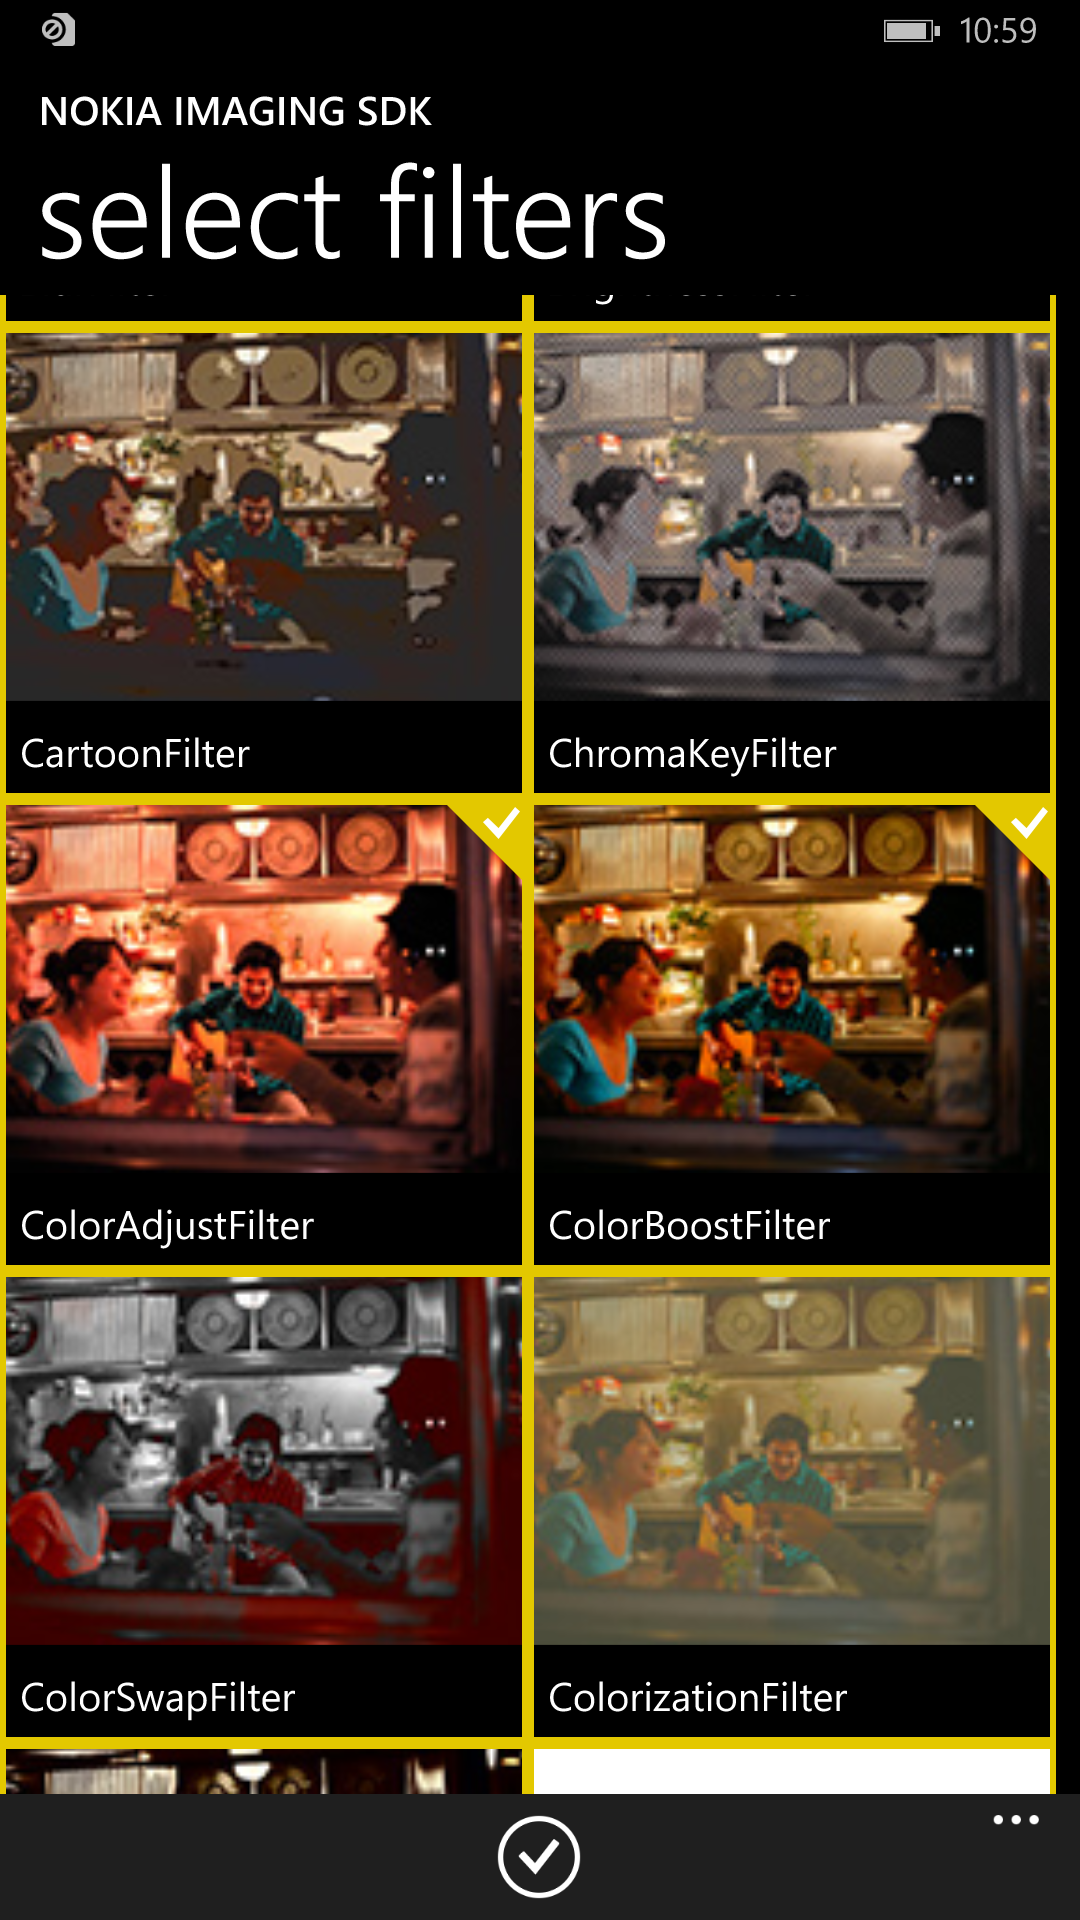
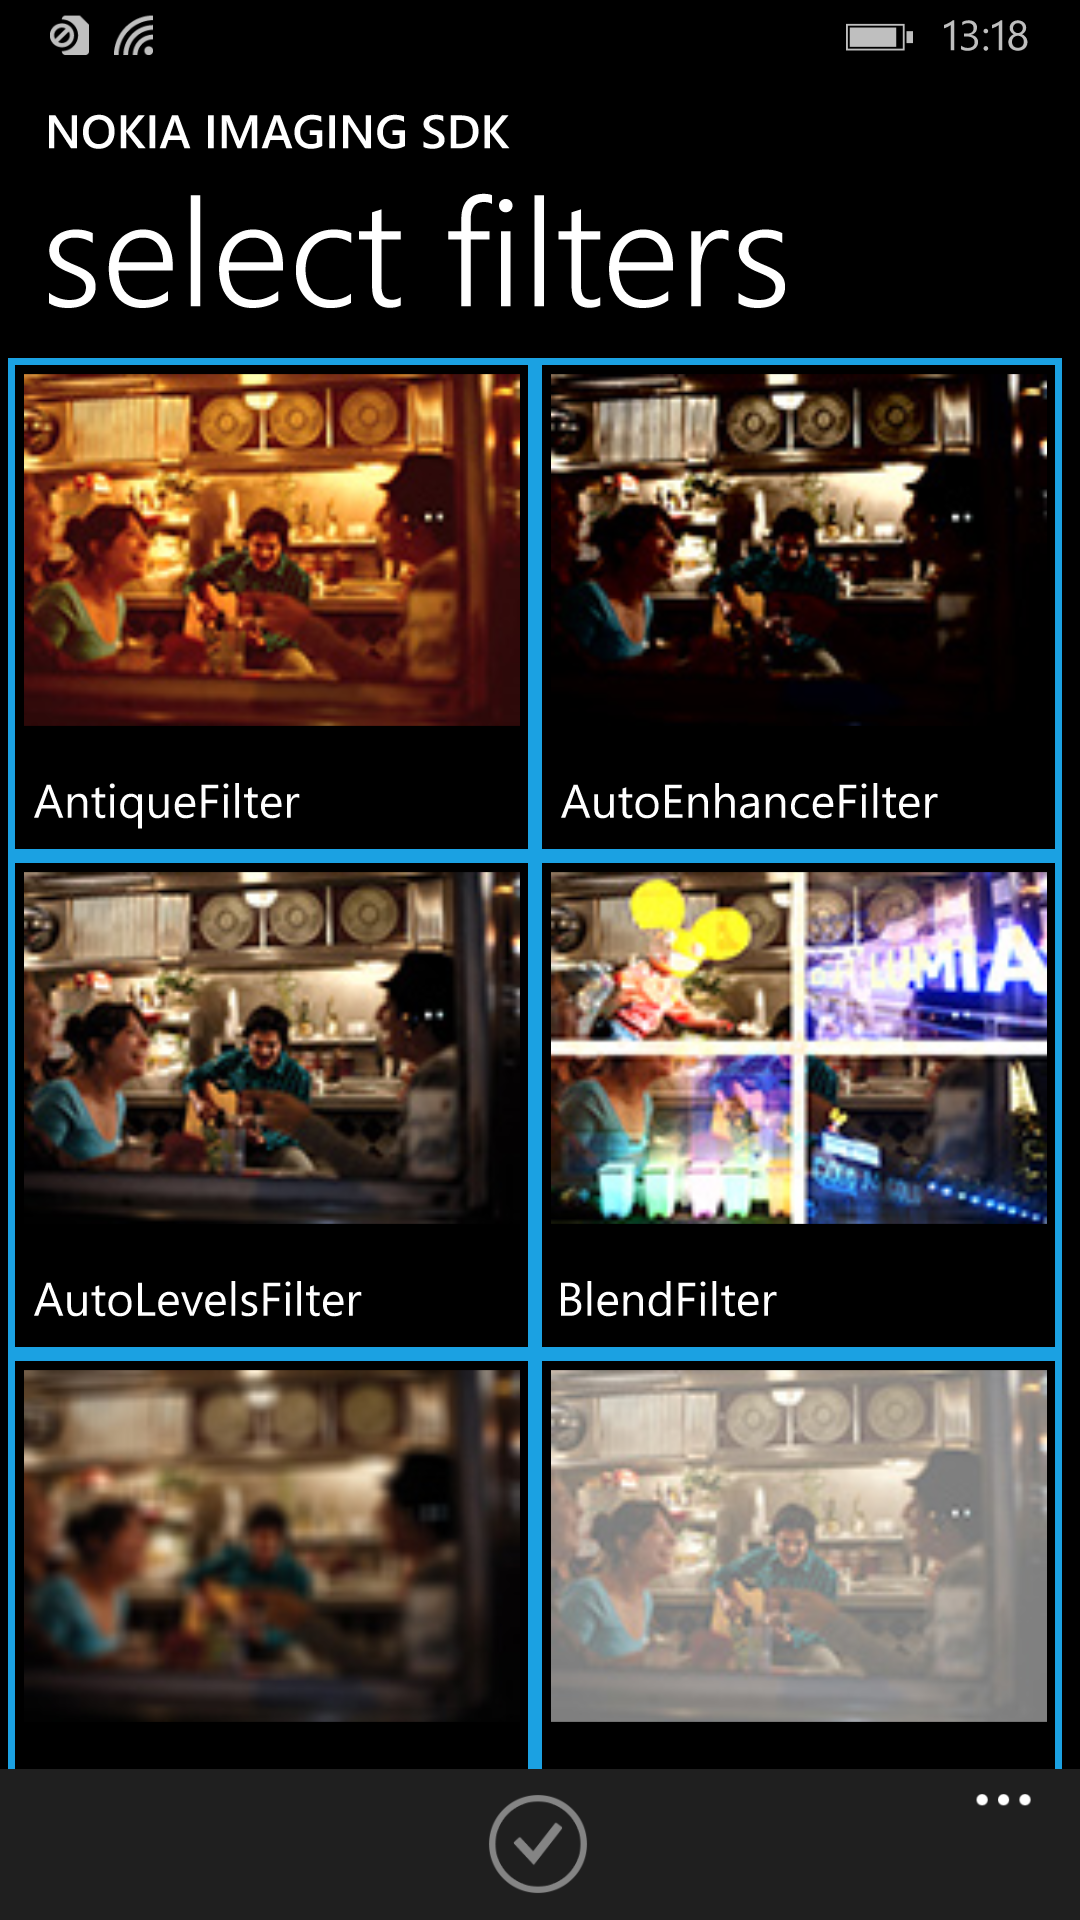
Updated the screenshots.

diff --git a/README.md b/README.md
@@ -8,16 +8,15 @@ https://github.com/nokia-developer/simple-filter-mixer/
 
 Developed with Microsoft Visual Studio 2013.
 
-Compatible with:
+Compatible with Windows Phone 8.1 and Windows 8.1. However, the user interface
+is optimised for the phone only and only the phone version is fully tested.
 
- * Windows Phone 8.1, Windows 8.1
+Tested to work on: Nokia Lumia 930, Nokia Lumia 1020 and Nokia Lumia 1520.
 
-Tested to work on:
+![Main page](/doc/screenshots/MainPageFiltersAppliedWPSmall.png?raw=true "Main page")&nbsp;
+![Filter selection page](/doc/screenshots/FiltersPageWPSmall.png?raw=true "Filter selection page")&nbsp;
+![Settings page](/doc/screenshots/SettingsPageWP2Small.png?raw=true "Filter selection page")&nbsp;
 
- * Nokia Lumia 1520, HP EliteBook 8570w
-
-![Alt text](/Simple Filter Mixer (2).png?raw=true "Screenshot 1")&nbsp;
-![Alt text](/SFMSetParams.png?raw=true "Screenshot 2")
 Instructions
 ------------
 
